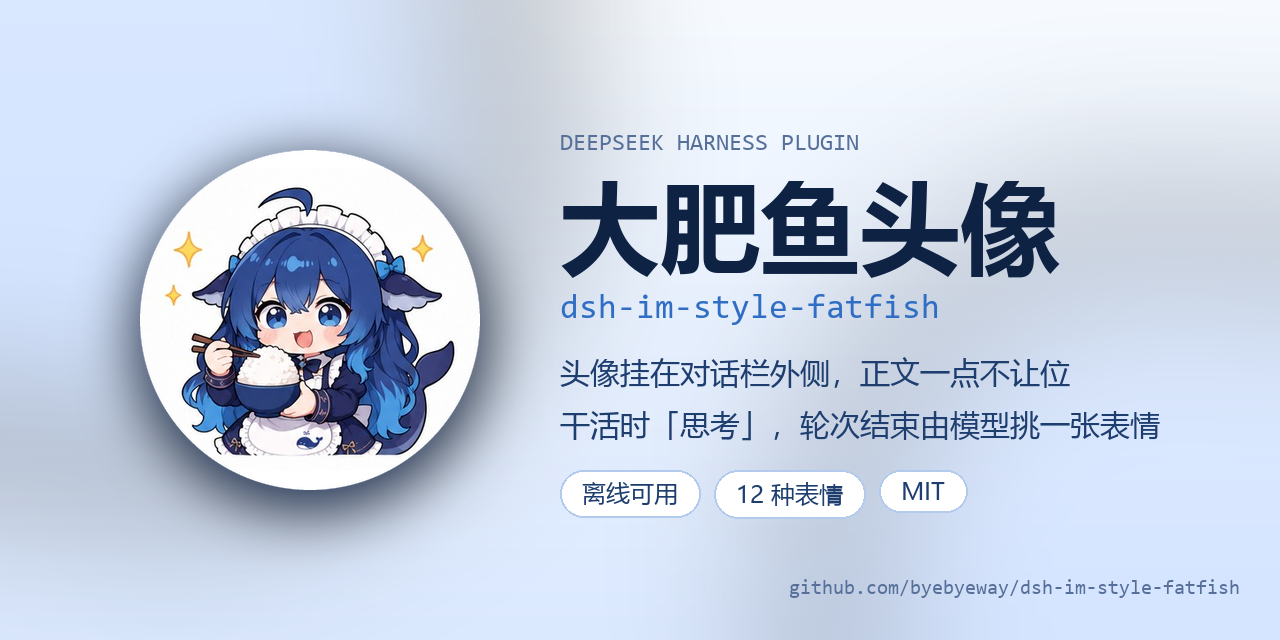
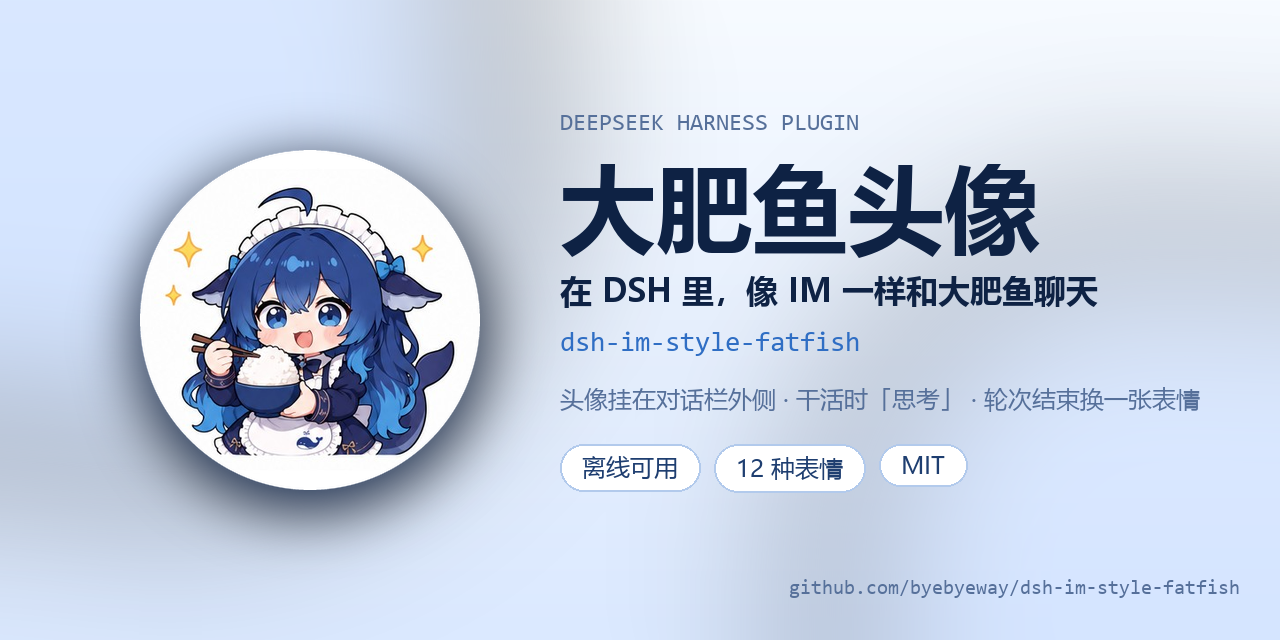
docs: one-line positioning — chat with Fatfish like an IM app
- README: bold one-liner under the title
- hero.png: tagline '在 DSH 里，像 IM 一样和大肥鱼聊天', mono id, capability line, chips
- package.json / locale descriptions aligned with the same sentence

Changed region(s): [[0.4375, 0.1562, 0.9375, 0.8125]]

diff --git a/scripts/make-promo.py b/scripts/make-promo.py
@@ -102,17 +102,16 @@ def hero():
     img.alpha_composite(ring, (140 - 90, 320 - ring.height // 2))
 
     x = 560
-    draw.text((x, 132), "DEEPSEEK HARNESS PLUGIN", font=font(FONT_MONO, 24), fill=MUTED)
-    draw.text((x, 158), "大肥鱼头像", font=font(FONT_BD, 100), fill=INK)
-    draw.text((x, 292), "dsh-im-style-fatfish", font=font(FONT_MONO, 34), fill=ACCENT)
-
-    lines = ["头像挂在对话栏外侧，正文一点不让位", "干活时「思考」，轮次结束由模型挑一张表情"]
-    for i, line in enumerate(lines):
-        draw.text((x, 352 + i * 52), line, font=font(FONT_RG, 30), fill=DEEP)
+    draw.text((x, 112), "DEEPSEEK HARNESS PLUGIN", font=font(FONT_MONO, 24), fill=MUTED)
+    draw.text((x, 142), "大肥鱼头像", font=font(FONT_BD, 96), fill=INK)
+    draw.text((x, 268), "在 DSH 里，像 IM 一样和大肥鱼聊天", font=font(FONT_BD, 32), fill=INK)
+    draw.text((x, 330), "dsh-im-style-fatfish", font=font(FONT_MONO, 28), fill=ACCENT)
+    draw.text((x, 382), "头像挂在对话栏外侧 · 干活时「思考」 · 轮次结束换一张表情",
+              font=font(FONT_RG, 24), fill=MUTED)
 
     cx = x
     for label in ("离线可用", "12 种表情", "MIT"):
-        cx += chip(draw, cx, 470, label, font(FONT_RG, 24)) + 14
+        cx += chip(draw, cx, 444, label, fnt=font(FONT_RG, 24)) + 14
 
     draw.text((w - 40, h - 46), "github.com/byebyeway/dsh-im-style-fatfish",
               font=font(FONT_MONO, 20), fill=MUTED, anchor="rs")

diff --git a/README.md b/README.md
@@ -1,5 +1,7 @@
 # dsh-im-style-fatfish
 
+**在 DSH 里，像 IM 一样和大肥鱼聊天。**
+
 给 [DeepSeek Harness](https://github.com/deepseek-ai/deepseek-harness) 的聊天界面加一只**大肥鱼**：
 助手回复旁边挂一个圆形头像，干活时是「思考」，这一轮结束之后由一次小模型调用从表情库里挑一张最贴的。
 
